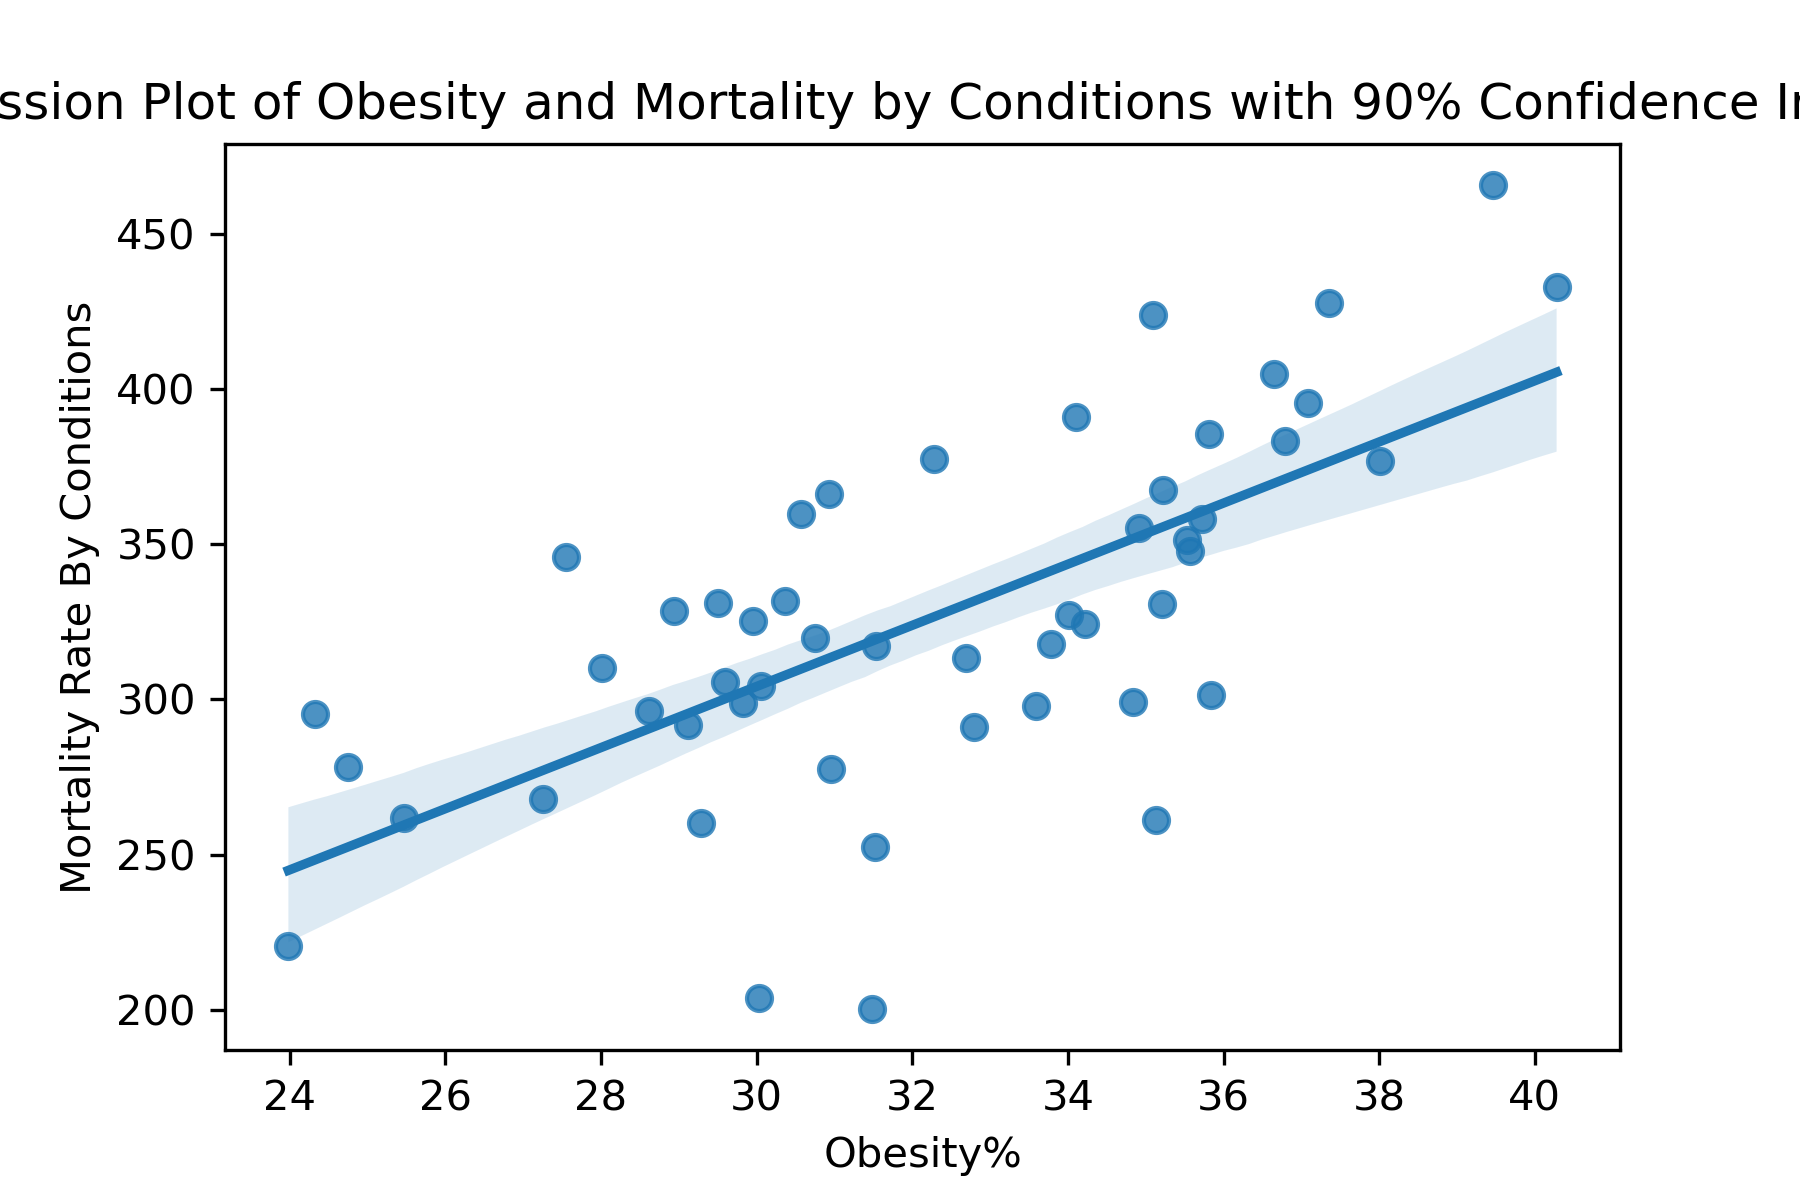
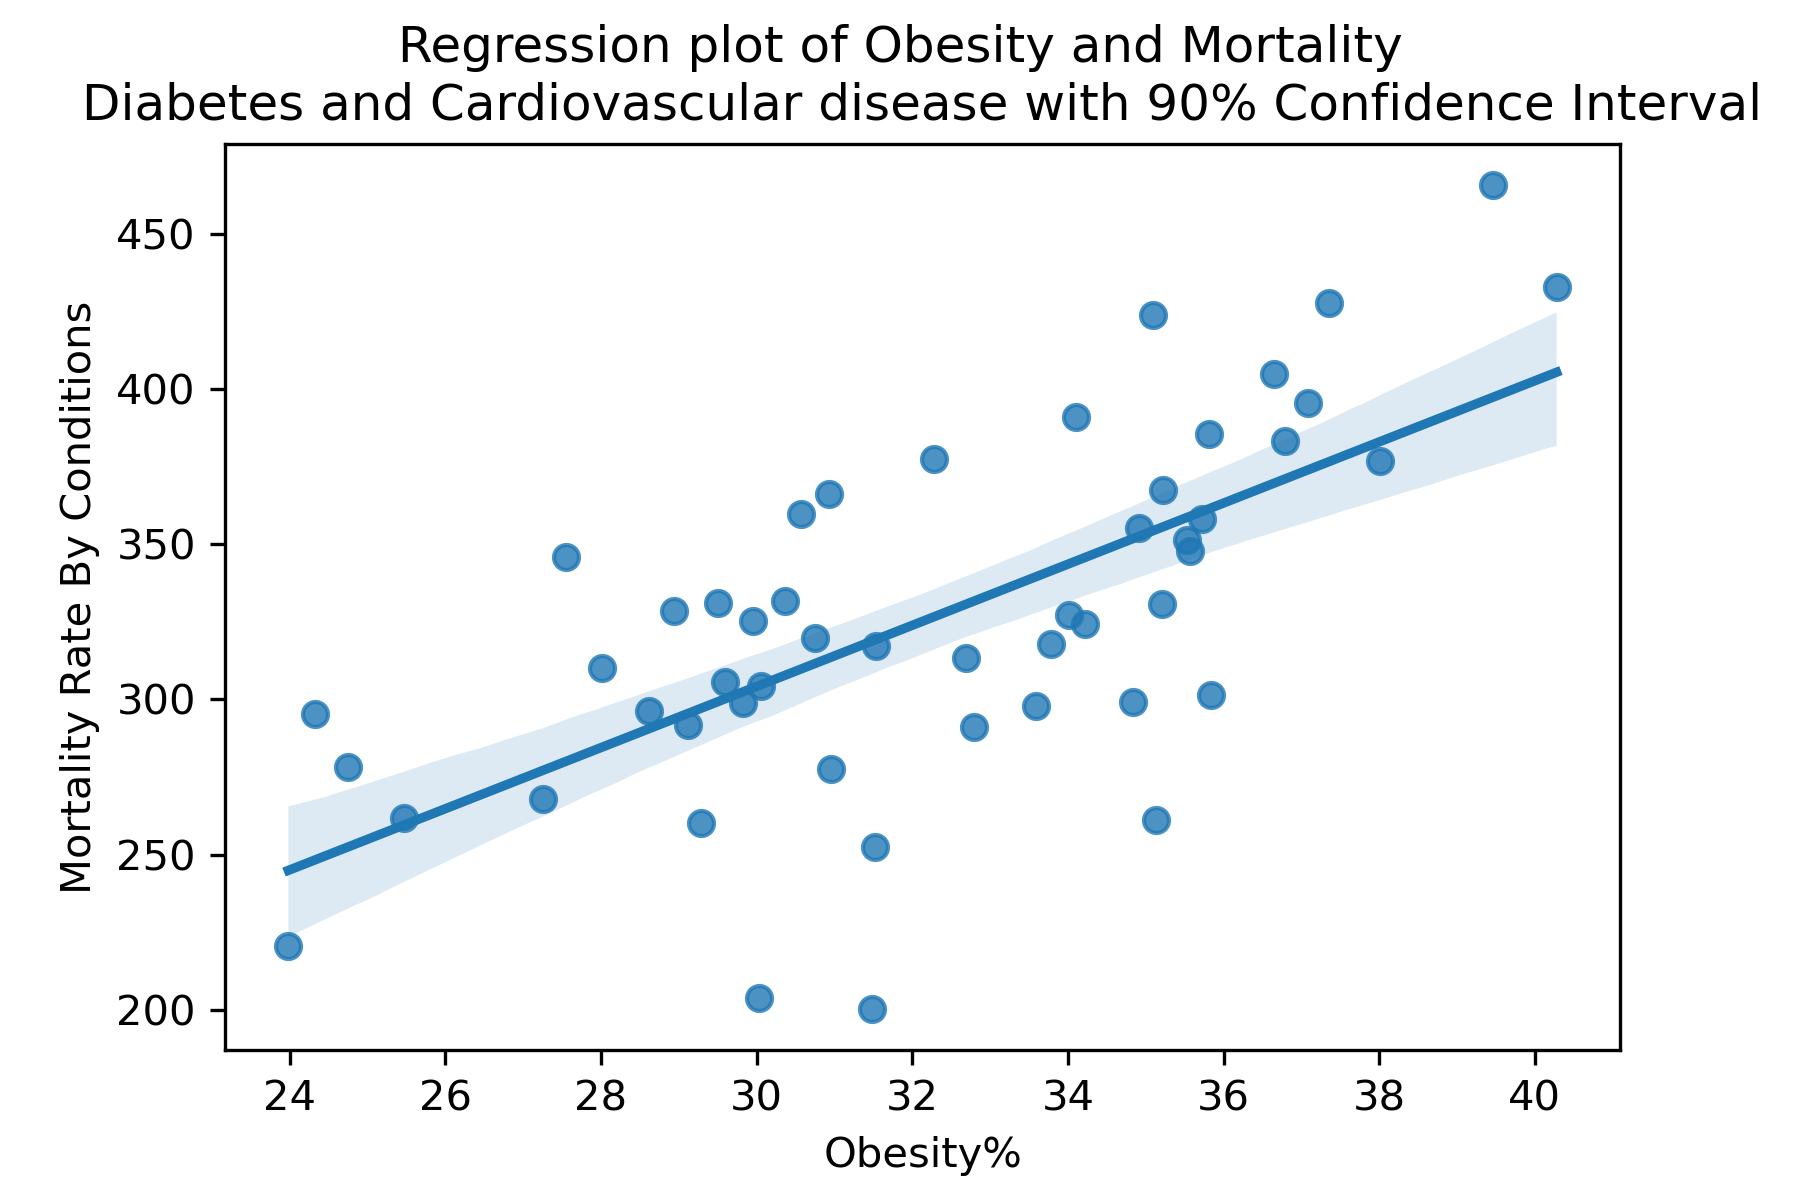
Updated

diff --git a/chart.py b/chart.py
@@ -28,7 +28,8 @@ def reg_plot(output_path, data):
     fig,ax = plt.subplots()
     sns.regplot(data=data, x="ObesityPercent", y="Crude_Death_Rate_Conditions_Overall", ci =90)
     
-    plt.title('Regression Plot of Obesity and Mortality by Conditions with 90% Confidence Intervals')
+    plt.title("Diabetes and Cardiovascular disease with 90% Confidence Interval")
+    plt.suptitle("Regression plot of Obesity and Mortality")
     plt.xlabel('Obesity%')
     plt.ylabel('Mortality Rate By Conditions')
     
